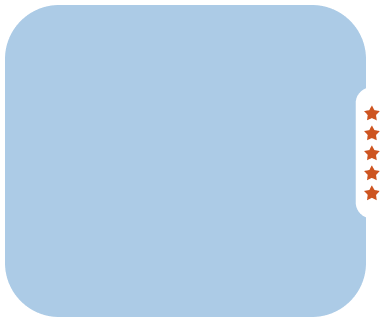
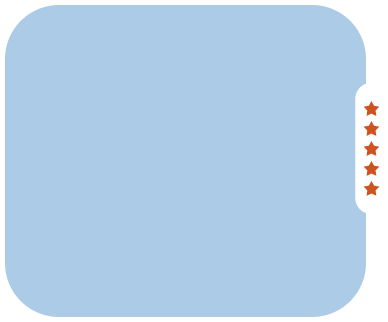
change testimonials section

diff --git a/web/css/main.css b/web/css/main.css
@@ -12,7 +12,8 @@
     height: 158px;
     background: linear-gradient(#99C0C2,#85B2B6);
     box-shadow: 0px 0px 9px 0px #347D81;
-    position: relative;
+    /*position: fixed;*/
+    /*z-index: 50;*/
 }
 .menuSection{
     width: 66%;
@@ -592,7 +593,6 @@
     margin: 137px 17% 0px;
     width: 66%;
     height: 677px;
-    border: 1px solid;
     position: absolute;
     display: flex;
     flex-direction: column;
@@ -602,7 +602,6 @@
 .testimonialsTitles{
     width: 447px;
     height: 112px;
-    border: 1px solid;
     display: flex;
     flex-direction: column;
     justify-content: space-between;
@@ -628,16 +627,46 @@
     justify-content: space-between;
     align-items: start;
 }
-.inactiveTestimonial{
-
+.blockTestimonial{
+    background-image: url("../images/inactivetestimonial.png");
+    background-repeat: no-repeat;
+    background-position: top;
+    background-size: 100%;
+    width: 30%;
+    height: 100%;
 }
-.imgText{
-    margin: 37px 34px;
+/*.blockTestimonial:hover{*/
+/*    background-image: url("../images/activetestimonial.png");*/
+/*    background-repeat: no-repeat;*/
+/*    background-position: top;*/
+/*    background-size: 100%;*/
+/*    cursor: pointer;*/
+/*    width: 30%;*/
+/*    height: 100%;*/
+/*}*/
+.intoBlockTestimonial{
+    border: 1px solid;
+    width: 78%;
+    height: 62%;
+    margin: 11.5% 9%;
+}
+.testimonialsText{
+    border: 1px solid;
+    width: 100%;
+    height: 161px;
 }
 .testimonialsCircle{
     width: 143px;
     height: 20px;
-    border: 1px solid;
+    display: flex;
+    flex-direction: row;
+    justify-content: space-between;
+}
+.caruselCircleTestimonial{
+    width: 20px;
+    height: 20px;
+    background: white;
+    border-radius: 10px;
 }
 .sectionSeven{
     margin-top: -49px;
@@ -715,6 +744,8 @@
     height: 247px;
     width: 100%;
     background: white;
+    border-bottom-left-radius: 30px;
+    border-bottom-right-radius: 30px;
 }
 .cardsTextField{
     position: absolute;

diff --git a/views/site/index.php b/views/site/index.php
@@ -171,21 +171,27 @@ $this->title = 'My Yii Application';
             <span class="testimonialWhiteTitle">Our customers love what we do</span>
         </div>
         <div class="testimonialsImg">
-            <div>
-                <img class="inactiveTestimonial" src="/images/inactivetestimonial.png" alt="">
-                <div class="imgText"></div>
+            <div class="blockTestimonial">
+                <div class="intoBlockTestimonial">
+                    <div class="testimonialSimbol">
+                        <img src="/images/symbolTestimonial.png" alt="">
+                    </div>
+                    <div class="testimonialsText"></div>
+                    <div class="fieldsLinkdin"></div>
+                </div>
             </div>
-            <div>
-                <img class="activeTestimonial" src="/images/activetestimonial.png" alt="">
+            <div class="blockTestimonial">
 
             </div>
-            <div>
-                <img class="inactiveTestimonial" src="/images/inactivetestimonial.png" alt="">
+            <div class="blockTestimonial">
 
             </div>
         </div>
         <div class="testimonialsCircle">
-
+            <div class="caruselCircleTestimonial"></div>
+            <div class="caruselCircleTestimonial"></div>
+            <div class="caruselCircleTestimonial"></div>
+            <div class="caruselCircleTestimonial"></div>
         </div>
     </div>
 </div>
